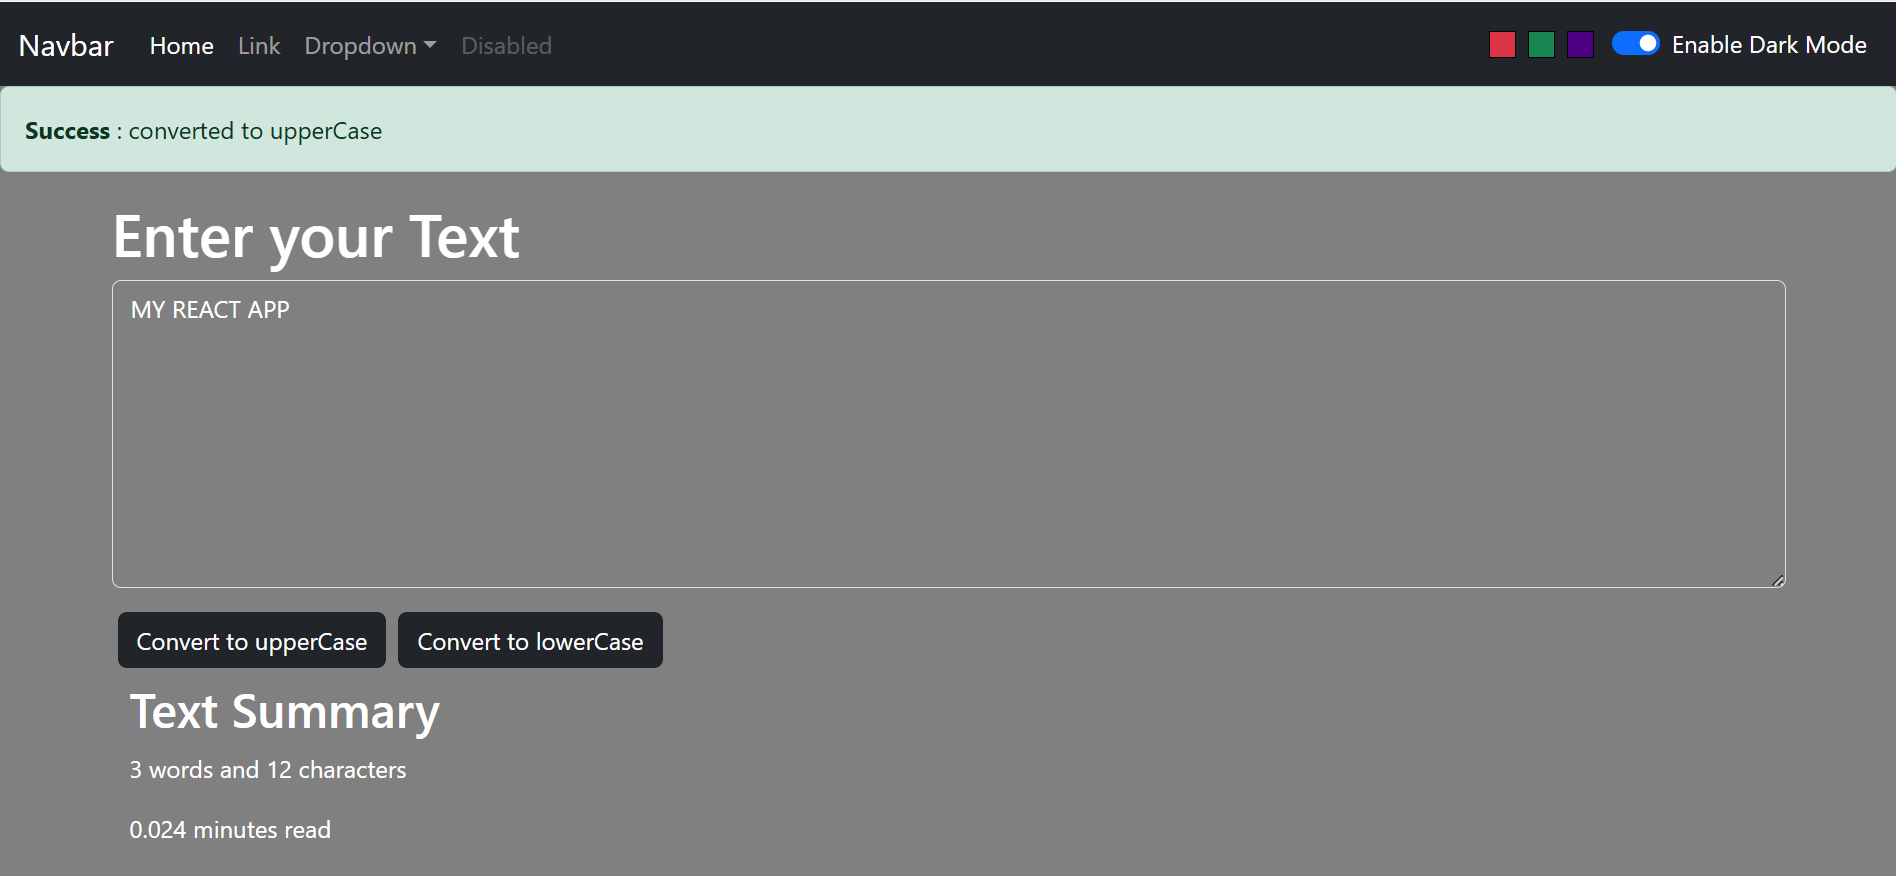
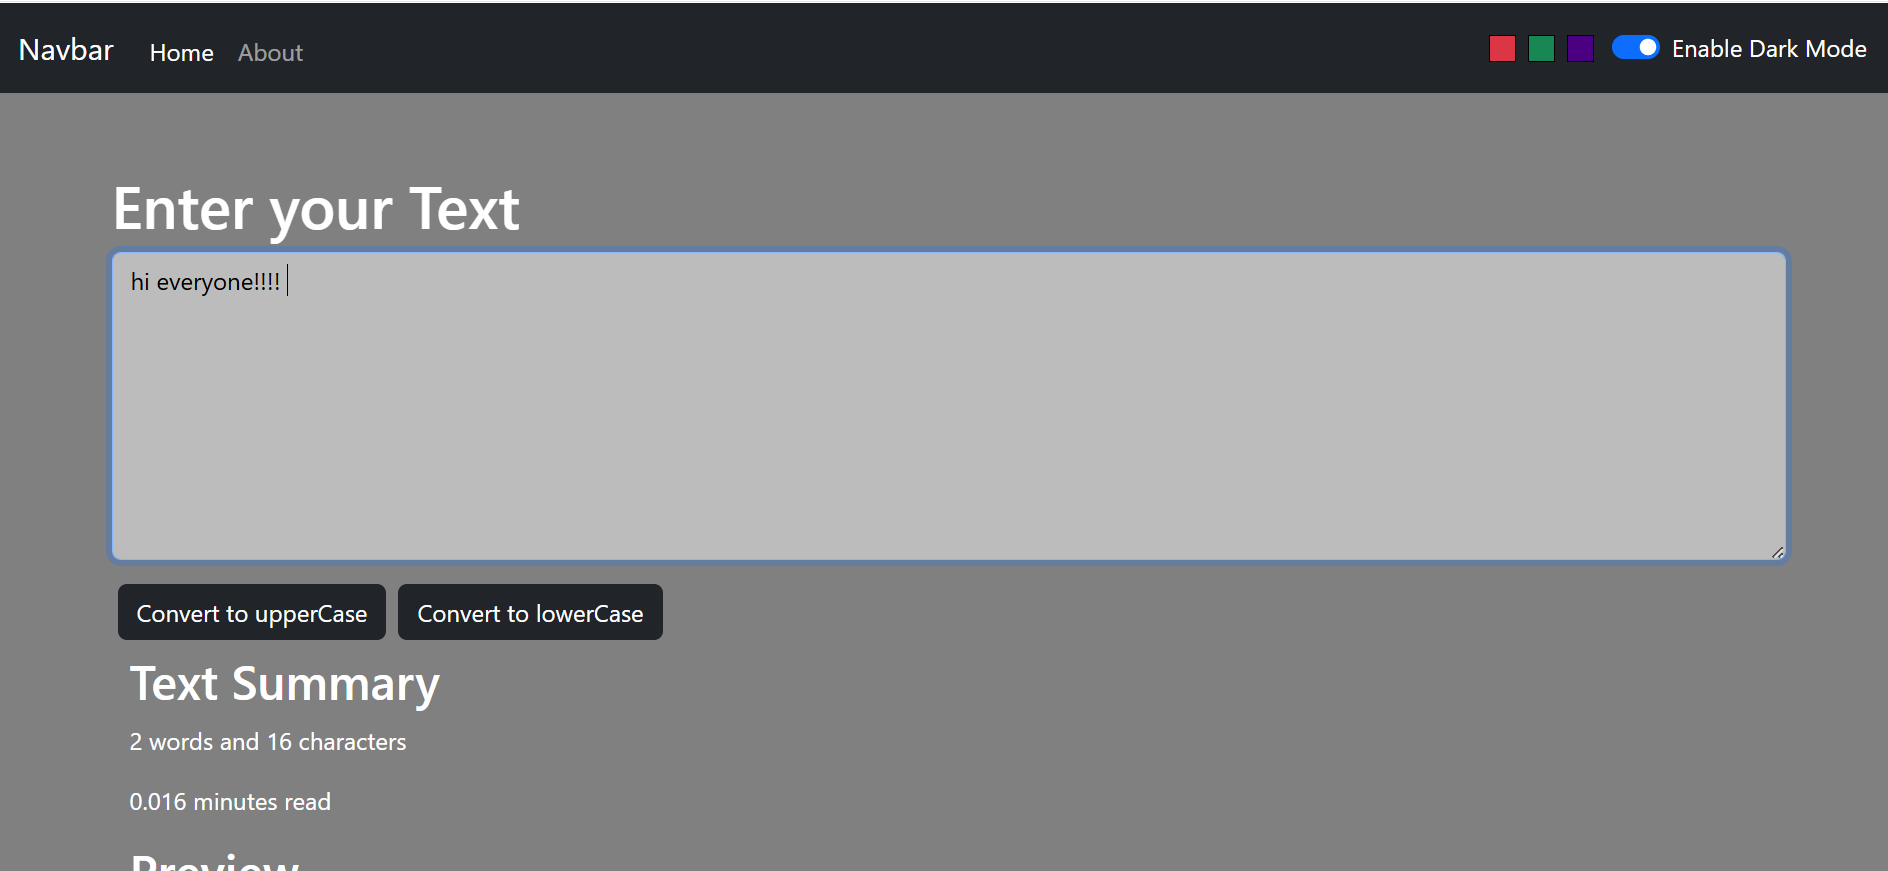
new commit

diff --git a/src/components/TextForm.jsx b/src/components/TextForm.jsx
@@ -50,7 +50,7 @@ export default function TextForm(p) {
             </h1>
 
             <div className="form-group" >
-                <textarea  style= {{ backgroundColor: p.mode === "dark" ? '#bcbcbc' : 'white', color: p.mode === 'dark' ? 'white' : 'black' } } type="text" onChange={handleIt} value={text} className="form-control my-2 " placeholder="Enter Text" rows="8"/>
+                <textarea  style= {{ backgroundColor: p.mode === "dark" ? '#bcbcbc' : 'white', color: p.mode === 'dark' ? 'black' : 'black' } } type="text" onChange={handleIt} value={text} className="form-control my-2 " placeholder="Enter Text" rows="8"/>
             </div>
 
             <button type="submit" className={`btn btn-${p.mode} my-2 mx-1`} onClick={uppCase} disabled={text.length===0} >Convert to upperCase</button>